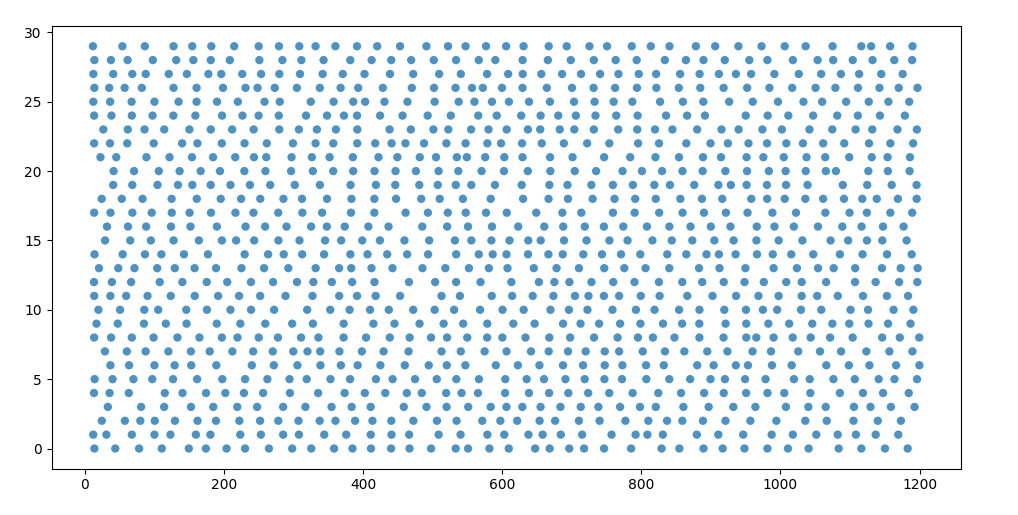
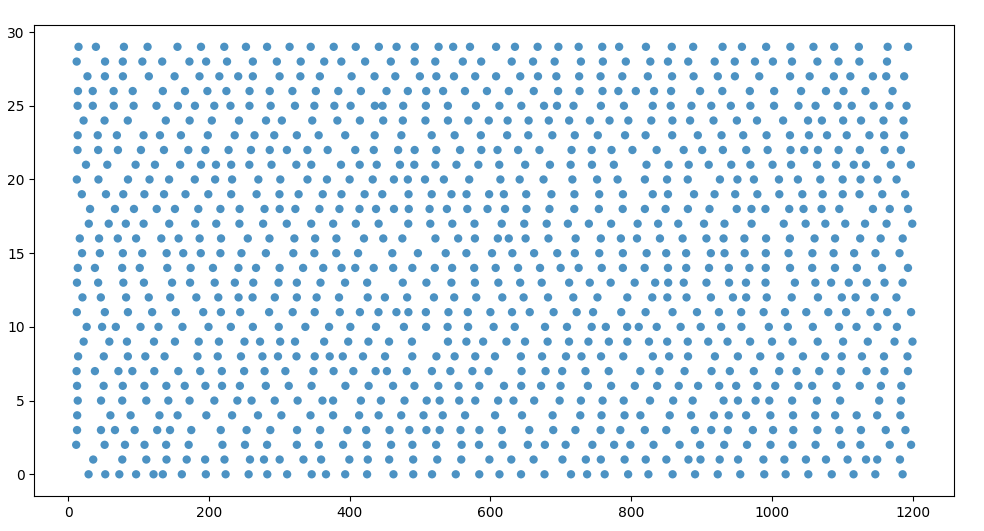
corrected spike detection, updated Simulation accordingly, updated plots accordingly

Changed region(s): [[0.0, 0.0311, 0.9756, 0.9942], [0.061, 0.932, 0.0915, 0.9631]]

diff --git a/Neuron.hpp b/Neuron.hpp
@@ -29,10 +29,11 @@ class Neuron
 	void setNeuronType(bool inhib); //!< sets the neuron type : true for inhibitory neuron, false for exitatory
 	bool isRefractory() const; //!< returns true if the neuron is in refractory state
 	void recieve(int time, int delay, bool inhib); //!< plan the time at which a spike is recieved @param time time at which the spike is recieved @param delay delay before the spike is recieved @param inhib true if the spike is inhibitory
-	void addTarget(int tar); //!< add a target to the list of tagets @param tar index of the target in the brain
-	void addPotential(double extPot); //!< add external potential to the membrane potential @param extPot a value to add to the membrane potential
+	void addTarget(int tar); //!< adds a target to the list of tagets @param tar index of the target in the brain
+	void addPotential(double extPot); //!< adds external potential to the membrane potential @param extPot a value to add to the membrane potential
+	std::vector<int> getTargets() const;//!< returns the Neuron's list of target (post synaptic neurons)
 	
-	std::vector<int> update(int t, double extCur);
+	bool update(int t, double extCur);
 	
 	private :
 	

diff --git a/Neuron_Test.cpp b/Neuron_Test.cpp
@@ -13,7 +13,7 @@ TEST(NeuronTest,OneCycleTest)
 	const double A = exp(-(DT/TAU));
 	const double B = R*(1-A);
 	Neuron n;
-	n.update(1, 1);
+	bool test = n.update(1, 1);
 	EXPECT_NEAR(B,n.getPot(),0.001);
 	
 }
@@ -25,8 +25,8 @@ TEST(NeuronTest,NoSpikes)
 	
 	for(int i(0);i<1000;++i)
 	{
-		vector<int> spike = n.update(i,1);
-		if(!spike.empty())
+		bool spike = n.update(i,1);
+		if(spike)
 		{
 			++count;
 		}
@@ -43,8 +43,8 @@ TEST(NeuronTest,spike)
 	
 	for(int i(0);i<1000;++i)
 	{
-		std::vector<int> spike = n.update(i,1.1);
-		if(!spike.empty())
+		bool spike = n.update(i,1.1);
+		if(spike)
 		{
 			++count;
 		}
@@ -64,14 +64,14 @@ TEST(TwoNeuronTest,Link)
 	{
 		double Iext = 1.1;
 		
-		vector<int> tar1(N1.update(i,Iext));
+		bool spk1(N1.update(i,Iext));
 			
-		if(!tar1.empty())
+		if(spk1)
 		{
 			N2.recieve(i,D,false);
 		}
 		
-		vector<int> tar2(N2.update(i,0));
+		bool spk2(N2.update(i,0));
 		
 		N2totpot += N2.getPot();
 		

diff --git a/SimuNeur.cpp b/SimuNeur.cpp
@@ -91,9 +91,9 @@ int main()
 				brain[j].addPotential(J*poi(gen)); //addition of the random spikes from other parts of the brain
 			}
 			
-			vector<int> tar(brain[j].update(i,0)); 
+			bool spk(brain[j].update(i,0)); 
 			
-			if(!tar.empty())
+			if(spk)
 			{
 				//spikesCount++;
 				
@@ -102,9 +102,14 @@ int main()
 					file1<<i<<" "<<j<<endl;
 				}
 				
-				for(unsigned int k(0);k<tar.size();k++)
+				vector<int> tar = brain[j].getTargets();
+				
+				if(!tar.empty())
 				{
-					brain[tar[k]].recieve(i,D,brain[j].isInhibitory());
+					for(unsigned int k(0);k<tar.size();k++)
+					{
+						brain[tar[k]].recieve(i,D,brain[j].isInhibitory());
+					}
 				}
 			}
 		}

diff --git a/Neuron.cpp b/Neuron.cpp
@@ -53,6 +53,11 @@ void Neuron::addTarget(int tar)
 	targets.push_back(tar);
 }
 
+std::vector<int> Neuron::getTargets() const
+{
+	return targets;
+}
+
 void Neuron::recieve(int t, int delay, bool isInhibitory)
 {
 	if(isInhibitory)
@@ -77,9 +82,8 @@ bool Neuron::isRefractory()const
 	}
 }
 
-std::vector<int> Neuron::update(int t, double extCur)
+bool Neuron::update(int t, double extCur)
 {
-	std::vector<int> targs;
 	
 	if(!isRefractory())
 	{	
@@ -101,13 +105,10 @@ std::vector<int> Neuron::update(int t, double extCur)
 		pot = 0;
 		refractTimer = 2;
 		
-		if(!targets.empty())
-		{
-			targs = targets;
-		}
+		return true;	
 	}
 	 
 	
 	
-	return targs;
+	return false;
 }
